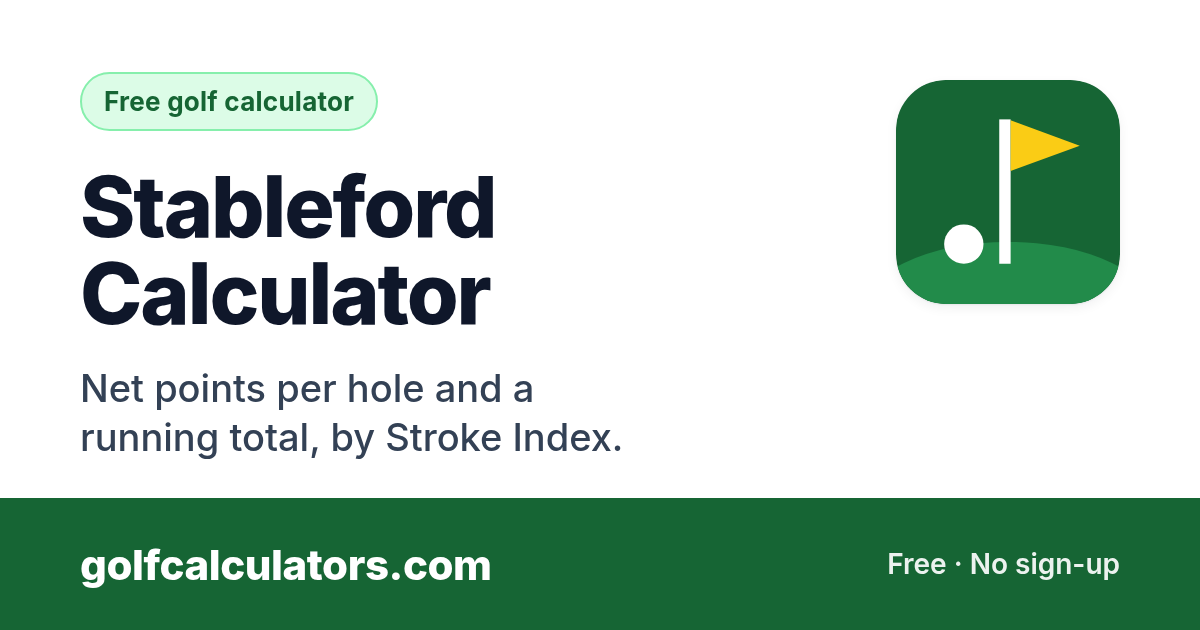
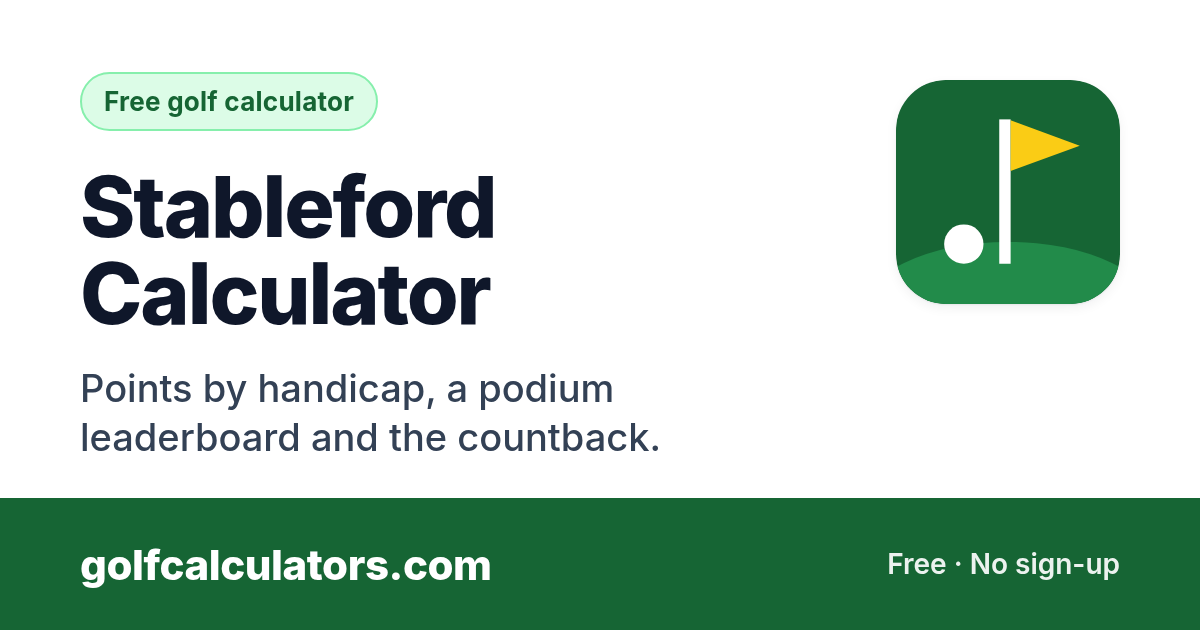
P4: Stableford title, description and share image mention the leaderboard and countback
Now that the leaderboard and countback ship, use the v7 P3 title 'Stableford Calculator –
Points with Handicap & Countback' (56 chars) and a 147-char description: 'Free Stableford
points calculator for 1–4 players, 18 or 9 holes: points per hole with handicap, a podium
leaderboard and the Australian countback.' og:/twitter: follow (build.js). og/stableford.png
re-rendered with 'Points by handicap, a podium leaderboard and the countback.'; the other 4
images are unchanged.

Changed region(s): [[0.0617, 0.573, 0.555, 0.7238]]

diff --git a/stableford.html b/stableford.html
@@ -6,23 +6,23 @@
 <link rel="icon" href="/favicon.ico" sizes="48x48">
 <link rel="icon" href="/favicon.svg" type="image/svg+xml">
 <link rel="apple-touch-icon" href="/apple-touch-icon.png">
-<title>Stableford Points Calculator – Handicap &amp; Countback Rules</title>
-<meta name="description" content="Free Stableford points calculator. Enter your Daily Handicap and scores to get points per hole by stroke index, plus how the Australian countback works.">
+<title>Stableford Calculator – Points with Handicap &amp; Countback</title>
+<meta name="description" content="Free Stableford points calculator for 1–4 players, 18 or 9 holes: points per hole with handicap, a podium leaderboard and the Australian countback.">
 <link rel="canonical" href="https://golfcalculators.com/stableford">
 <meta property="og:type" content="website">
 <meta property="og:site_name" content="golfcalculators.com">
-<meta property="og:title" content="Stableford Points Calculator – Handicap &amp; Countback Rules">
-<meta property="og:description" content="Free Stableford points calculator. Enter your Daily Handicap and scores to get points per hole by stroke index, plus how the Australian countback works.">
+<meta property="og:title" content="Stableford Calculator – Points with Handicap &amp; Countback">
+<meta property="og:description" content="Free Stableford points calculator for 1–4 players, 18 or 9 holes: points per hole with handicap, a podium leaderboard and the Australian countback.">
 <meta property="og:url" content="https://golfcalculators.com/stableford">
 <meta property="og:image" content="https://golfcalculators.com/og/stableford.png">
 <meta property="og:image:width" content="1200">
 <meta property="og:image:height" content="630">
-<meta property="og:image:alt" content="Stableford Calculator: Net points per hole and a running total, by Stroke Index. golfcalculators.com">
+<meta property="og:image:alt" content="Stableford Calculator: Points by handicap, a podium leaderboard and the countback. golfcalculators.com">
 <meta name="twitter:card" content="summary_large_image">
-<meta name="twitter:title" content="Stableford Points Calculator – Handicap &amp; Countback Rules">
-<meta name="twitter:description" content="Free Stableford points calculator. Enter your Daily Handicap and scores to get points per hole by stroke index, plus how the Australian countback works.">
+<meta name="twitter:title" content="Stableford Calculator – Points with Handicap &amp; Countback">
+<meta name="twitter:description" content="Free Stableford points calculator for 1–4 players, 18 or 9 holes: points per hole with handicap, a podium leaderboard and the Australian countback.">
 <meta name="twitter:image" content="https://golfcalculators.com/og/stableford.png">
-<meta name="twitter:image:alt" content="Stableford Calculator: Net points per hole and a running total, by Stroke Index. golfcalculators.com">
+<meta name="twitter:image:alt" content="Stableford Calculator: Points by handicap, a podium leaderboard and the countback. golfcalculators.com">
 <script>
   // GA4 (G-DH32H3GWKE) on the production hostnames only: previews and localhost send nothing.
   window.dataLayer = window.dataLayer || [];
@@ -259,7 +259,7 @@ a{color:var(--accent)}
    "@id": "https://golfcalculators.com/stableford#app",
    "name": "Stableford Points Calculator",
    "url": "https://golfcalculators.com/stableford",
-   "description": "Free Stableford points calculator. Enter your Daily Handicap and scores to get points per hole by stroke index, plus how the Australian countback works.",
+   "description": "Free Stableford points calculator for 1–4 players, 18 or 9 holes: points per hole with handicap, a podium leaderboard and the Australian countback.",
    "applicationCategory": "SportsApplication",
    "operatingSystem": "Any",
    "offers": {
